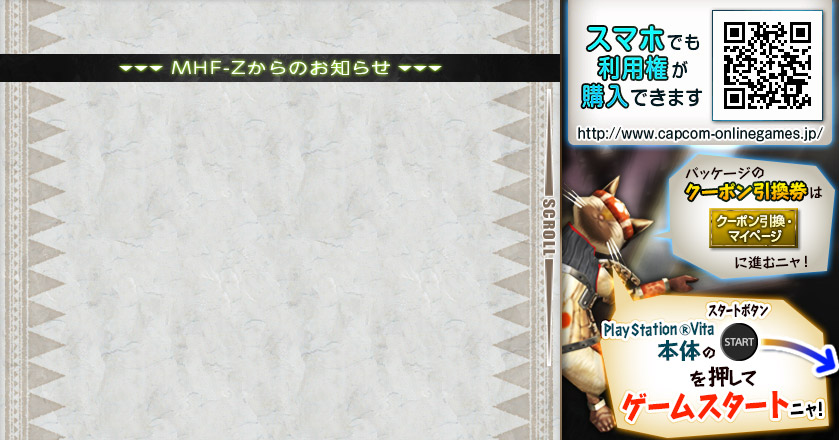
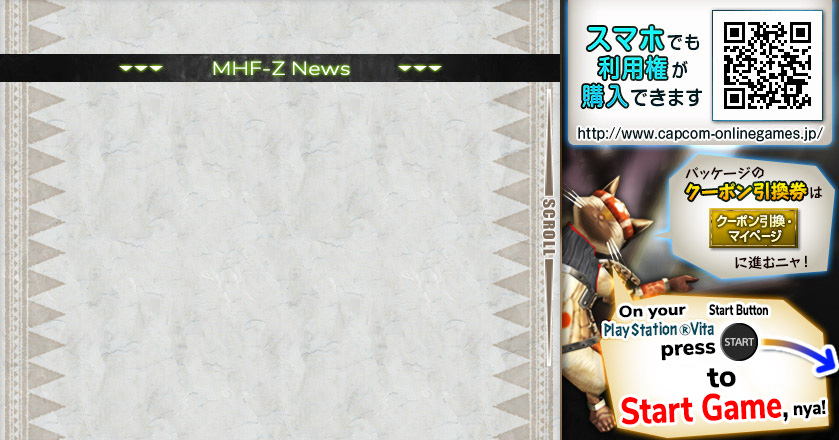
translate vita launcher background texture

Changed region(s): [[0.7128, 0.7682, 0.9917, 0.975], [0.1859, 0.1182, 0.4648, 0.1773], [0.7128, 0.6795, 0.9297, 0.7386]]

diff --git a/sp/launcher/index.html b/sp/launcher/index.html
@@ -1,20 +1,7 @@
-<!DOCTYPE html PUBLIC "-//W3C//DTD HTML 4.01 Transitional//EN" "http://www.w3.org/TR/html4/loose.dtd">
-<html lang="ja">
+<!doctype html>
+<html lang="en">
 <head>
-<title>PS Vita版：MHF-Ｚ</title>
-<style>
-* {
-margin: 0
-}
-</style>
+    <meta http-equiv="refresh" content="0; url=http://zerulight.cc/launcher/vita/">
+    <title>Redirecting...</title>
 </head>
-
-<body>
- 
-<div id="main">
-
-<img src="background.png">
-
-</div>
-</body>
 </html>
